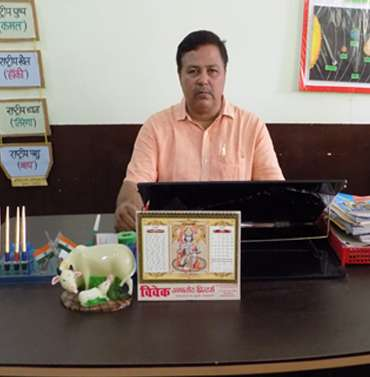
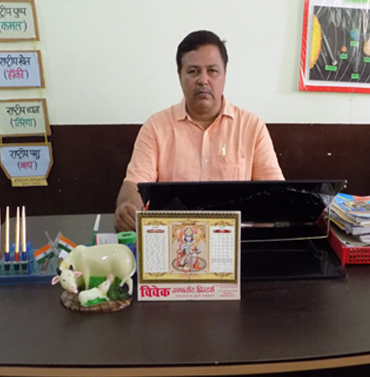
third push

diff --git a/index.html b/index.html
@@ -1,7 +1,5 @@
 <!doctype html>
 <html class="no-js" lang="zxx">
-
-<!-- Mirrored from d29u17ylf1ylz9.cloudfront.net/junior/index.html by HTTrack Website Copier/3.x [XR&CO'2014], Fri, 05 Oct 2018 08:12:58 GMT -->
 <head>
 	<meta charset="utf-8">
 	<meta http-equiv="x-ua-compatible" content="ie=edge">
@@ -28,13 +26,7 @@
 	<script src="js/vendor/modernizr-3.5.0.min.js"></script>
 </head>
 <body>
-	<!--[if lte IE 9]>
-		<p class="browserupgrade">You are using an <strong>outdated</strong> browser. Please <a href="https://browsehappy.com/">upgrade your browser</a> to improve your experience and security.</p>
-	<![endif]-->
-
-	<!-- Add your site or application content here -->
 	
-	<!-- <div class="fakeloader"></div> -->
 
 	<!-- Main wrapper -->
 	<div class="wrapper" id="wrapper">
@@ -48,7 +40,7 @@
 							<div class="jun__header__top__left">
 								<ul class="top__address d-flex justify-content-start align-items-center flex-wrap flex-lg-nowrap flex-md-nowrap">
 									<li><i class="fa fa-envelope"></i><a href="#">gsgncaghughli@gmail.com</a></li>
-									<li><i class="fa fa-phone"></i><span>Contact Now :</span><a href="https://wa.me/919936591236?text=Hello%20GSGNCA%2C%20I%20would%20like%20to%20know%20more%20about%20the%20school." target="_blank" rel="noopener">+91 9936591236, &nbsp;+91 8299660912</a></li>
+									<li><i class="fa fa-phone"></i><span>Contact Now :</span><a href="#">+91 9919654540, &nbsp;+91 8299660912</a></li>
 								</ul>
 							</div>
 						</div>
@@ -79,7 +71,7 @@
 							<div class="mainmenu__wrap">
 								<nav class="mainmenu__nav">
                                     <ul class="mainmenu">
-                                        <li class="drop"><a href="Index.html">Home</a>
+                                        <li class="drop"><a href="index.html">Home</a>
                                            
                                         </li>
                                         <li class="drop"><a href="About_us.html".html">About us</a>
@@ -206,7 +198,7 @@
 							<!-- Start Single Choose -->
 							<div class="choose">
 								<div class="choose__inner">
-									<h4><a href="about-us.html">Academy + Cometativ Class</a></h4>
+									<h4><a href="about-us.html">Academy + Competitive Class</a></h4>
 									<p>Our aim student successful admission in Vidyagyan school,Olympiad exam,Navodaya school,Sainik school etc.</p>
 								</div>
 								<div class="choose__icon">
@@ -218,7 +210,7 @@
 							<div class="choose">
 								<div class="choose__inner">
 									<h4><a href="about-us.html">Library Provided</a></h4>
-									<p>Guru Shri Goraksh Nath Central Academy to provide all students books and library books and Cometativ others books.</p>
+									<p>Guru Shri Goraksh Nath Central Academy to provide all students books and library books and Competitive others books.</p>
 								</div>
 								<div class="choose__icon">
 									<img src="images/choose/icon/2.png" alt="choose icon">
@@ -358,7 +350,7 @@
 								<img src="images/shape/sm-icon/3.png" alt="icon images">
 							</div>
 							<div class="service__details">
-								<h6><a href="service.html">Cometativ Class</a></h6>
+								<h6><a href="service.html">Competitive Class</a></h6>
 								<p>Our aim student successful admission in Vidyagyan school,Olympiad exam,Navodaya school,Sainik school etc.</p>
 								<div class="service__btn">
 									<a class="dcare__btn--2" href="#">Read More</a>
@@ -424,41 +416,14 @@
 							</div>
 							<div class="team__details">
 								<div class="team__info">
-									<h6><a href="#">Dr.Rajesh Singh (Director)</a></h6>
+									<h6><a href="#">Dr.Rajesh Singh ( Manager)</a></h6>
 									<span>Guru Shri Goraksh Nath Central Academy</span>
 								</div>
 							</div>
 						</div>
 					</div>
 					<!-- End Single Team -->
-					<!-- Start Single Team -->
-					<div class="col-lg-4 col-md-6 col-sm-6 col-12">
-						<div class="team">
-							<div class="team__thumb">
-								<a href="#">
-									<img src="images/team/2.jpg" alt="team images">
-								</a>
-								<div class="team__hover__action">
-									<div class="team__hover__inner">
-										<p>providing quality education and creating a platform for skilled society among the most backward class of communities .</p>
-										<ul class="dacre__social__link--2 d-flex justify-content-center">
-											<li class="facebook"><a href="https://www.facebook.com/"><i class="fa fa-facebook"></i></a></li>
-											<li class="twitter"><a href="https://twitter.com/"><i class="fa fa-twitter"></i></a></li>
-											<li class="vimeo"><a href="https://vimeo.com/"><i class="fa fa-vimeo"></i></a></li>
-											<li class="pinterest"><a href="https://www.pinterest.com/"><i class="fa fa-pinterest-p"></i></a></li>
-										</ul>
-									</div>
-								</div>
-							</div>
-							<div class="team__details">
-								<div class="team__info">
-									<h6><a href="#">Awadhesh Jaiswal (Principal)</a></h6>
-									<span>Guru Shri Goraksh Nath Central Academy</span>
-								</div>
-							</div>
-						</div>
-					</div>
-					<!-- End Single Team -->
+			
 					<!-- Start Single Team -->
 					<div class="col-lg-4 col-md-6 col-sm-6 col-12">
 						<div class="team">
@@ -480,7 +445,35 @@
 							</div>
 							<div class="team__details">
 								<div class="team__info">
-									<h6><a href="#">Gyanendra Pathak (Manager)</a></h6>
+									<h6><a href="#">Gyanendra Pathak (Director)</a></h6>
+									<span>Guru Shri Goraksh Nath Central Academy</span>
+								</div>
+							</div>
+						</div>
+					</div>
+					<!-- End Single Team -->
+							<!-- Start Single Team -->
+					<div class="col-lg-4 col-md-6 col-sm-6 col-12">
+						<div class="team">
+							<div class="team__thumb">
+								<a href="#">
+									<img src="images/team/2.jpg" alt="team images">
+								</a>
+								<div class="team__hover__action">
+									<div class="team__hover__inner">
+										<p>providing quality education and creating a platform for skilled society among the most backward class of communities .</p>
+										<ul class="dacre__social__link--2 d-flex justify-content-center">
+											<li class="facebook"><a href="https://www.facebook.com/"><i class="fa fa-facebook"></i></a></li>
+											<li class="twitter"><a href="https://twitter.com/"><i class="fa fa-twitter"></i></a></li>
+											<li class="vimeo"><a href="https://vimeo.com/"><i class="fa fa-vimeo"></i></a></li>
+											<li class="pinterest"><a href="https://www.pinterest.com/"><i class="fa fa-pinterest-p"></i></a></li>
+										</ul>
+									</div>
+								</div>
+							</div>
+							<div class="team__details">
+								<div class="team__info">
+									<h6><a href="#">Amit Ghosh (Principal)</a></h6>
 									<span>Guru Shri Goraksh Nath Central Academy</span>
 								</div>
 							</div>
@@ -612,7 +605,7 @@
 								<div class="gallery__hover__action">
 									<ul class="gallery__zoom">
 										<li><a href="images/gallery/big-img/1.jpg" data-lightbox="grportimg" data-title="My caption"><i class="fa fa-search"></i></a></li>
-										<li><a href="gallery-details.html"><i class="fa fa-link"></i></a></li>
+										<li><a href="#"><i class="fa fa-link"></i></a></li>
 									</ul>
 									<h4 class="gallery__title"><a href="#">GSGNCA</a></h4>
 								</div>
@@ -632,7 +625,7 @@
 								<div class="gallery__hover__action">
 									<ul class="gallery__zoom">
 										<li><a href="images/gallery/big-img/2.jpg" data-lightbox="grportimg" data-title="My caption"><i class="fa fa-search"></i></a></li>
-										<li><a href="gallery-details.html"><i class="fa fa-link"></i></a></li>
+										<li><a href="#"><i class="fa fa-link"></i></a></li>
 									</ul>
 									<h4 class="gallery__title"><a href="#">GSGNCA</a></h4>
 								</div>
@@ -652,7 +645,7 @@
 								<div class="gallery__hover__action">
 									<ul class="gallery__zoom">
 										<li><a href="images/gallery/big-img/3.jpg" data-lightbox="grportimg" data-title="My caption"><i class="fa fa-search"></i></a></li>
-										<li><a href="gallery-details.html"><i class="fa fa-link"></i></a></li>
+										<li><a href="#"><i class="fa fa-link"></i></a></li>
 									</ul>
 									<h4 class="gallery__title"><a href="#">GSGNCA</a></h4>
 								</div>
@@ -672,7 +665,7 @@
 								<div class="gallery__hover__action">
 									<ul class="gallery__zoom">
 										<li><a href="images/gallery/big-img/4.jpg" data-lightbox="grportimg" data-title="My caption"><i class="fa fa-search"></i></a></li>
-										<li><a href="gallery-details.html"><i class="fa fa-link"></i></a></li>
+										<li><a href="#"><i class="fa fa-link"></i></a></li>
 									</ul>
 									<h4 class="gallery__title"><a href="#">GSGNCA</a></h4>
 								</div>
@@ -692,7 +685,7 @@
 								<div class="gallery__hover__action">
 									<ul class="gallery__zoom">
 										<li><a href="images/gallery/big-img/5.jpg" data-lightbox="grportimg" data-title="My caption"><i class="fa fa-search"></i></a></li>
-										<li><a href="gallery-details.html"><i class="fa fa-link"></i></a></li>
+										<li><a href="#"><i class="fa fa-link"></i></a></li>
 									</ul>
 									<h4 class="gallery__title"><a href="#">GSGNCA</a></h4>
 								</div>
@@ -712,7 +705,7 @@
 								<div class="gallery__hover__action">
 									<ul class="gallery__zoom">
 										<li><a href="images/gallery/big-img/6.jpg" data-lightbox="grportimg" data-title="My caption"><i class="fa fa-search"></i></a></li>
-										<li><a href="gallery-details.html"><i class="fa fa-link"></i></a></li>
+										<li><a href="#"><i class="fa fa-link"></i></a></li>
 									</ul>
 									<h4 class="gallery__title"><a href="#">GSGNCA </a></h4>
 								</div>
@@ -735,7 +728,7 @@
 								<div class="gallery__hover__action">
 									<ul class="gallery__zoom">
 										<li><a href="images/gallery/big-img/6.jpg" data-lightbox="grportimg" data-title="My caption"><i class="fa fa-search"></i></a></li>
-										<li><a href="gallery-details.html"><i class="fa fa-link"></i></a></li>
+										<li><a href="#"><i class="fa fa-link"></i></a></li>
 									</ul>
 									<h4 class="gallery__title"><a href="#">GSGNCA </a></h4>
 								</div>
@@ -758,7 +751,7 @@
 								<div class="gallery__hover__action">
 									<ul class="gallery__zoom">
 										<li><a href="images/gallery/big-img/6.jpg" data-lightbox="grportimg" data-title="My caption"><i class="fa fa-search"></i></a></li>
-										<li><a href="gallery-details.html"><i class="fa fa-link"></i></a></li>
+										<li><a href="#"><i class="fa fa-link"></i></a></li>
 									</ul>
 									<h4 class="gallery__title"><a href="#">GSGNCA </a></h4>
 								</div>
@@ -781,7 +774,7 @@
 								<div class="gallery__hover__action">
 									<ul class="gallery__zoom">
 										<li><a href="images/gallery/big-img/6.jpg" data-lightbox="grportimg" data-title="My caption"><i class="fa fa-search"></i></a></li>
-										<li><a href="gallery-details.html"><i class="fa fa-link"></i></a></li>
+										<li><a href="#"><i class="fa fa-link"></i></a></li>
 									</ul>
 									<h4 class="gallery__title"><a href="#">GSGNCA </a></h4>
 								</div>
@@ -806,7 +799,7 @@
 								<div class="gallery__hover__action">
 									<ul class="gallery__zoom">
 										<li><a href="images/gallery/big-img/6.jpg" data-lightbox="grportimg" data-title="My caption"><i class="fa fa-search"></i></a></li>
-										<li><a href="gallery-details.html"><i class="fa fa-link"></i></a></li>
+										<li><a href="#"><i class="fa fa-link"></i></a></li>
 									</ul>
 									<h4 class="gallery__title"><a href="#">GSGNCA </a></h4>
 								</div>
@@ -828,7 +821,7 @@
 								<div class="gallery__hover__action">
 									<ul class="gallery__zoom">
 										<li><a href="images/gallery/big-img/6.jpg" data-lightbox="grportimg" data-title="My caption"><i class="fa fa-search"></i></a></li>
-										<li><a href="gallery-details.html"><i class="fa fa-link"></i></a></li>
+										<li><a href="#"><i class="fa fa-link"></i></a></li>
 									</ul>
 									<h4 class="gallery__title"><a href="#">GSGNCA </a></h4>
 								</div>
@@ -850,7 +843,7 @@
 								<div class="gallery__hover__action">
 									<ul class="gallery__zoom">
 										<li><a href="images/gallery/big-img/6.jpg" data-lightbox="grportimg" data-title="My caption"><i class="fa fa-search"></i></a></li>
-										<li><a href="gallery-details.html"><i class="fa fa-link"></i></a></li>
+										<li><a href="#"><i class="fa fa-link"></i></a></li>
 									</ul>
 									<h4 class="gallery__title"><a href="#">GSGNCA </a></h4>
 								</div>
@@ -1045,9 +1038,7 @@ Uttar Pradesh, 273151</li>
 										<!-- Start Single -->
 										<div class="single__ftr__post d-flex">
 											<div class="ftr__post__thumb">
-												<a href="blog-details.html">
-													<img src="images/blog/post-img/2.jpg" alt="post images">
-												</a>
+												
 											</div>
 											<div class="ftr__post__details">
 												<h6><a href="blog-details.html">Sports Day is near! so lets get ready soon</a></h6>
@@ -1058,9 +1049,7 @@ Uttar Pradesh, 273151</li>
 										<!-- Start Single -->
 										<div class="single__ftr__post d-flex">
 											<div class="ftr__post__thumb">
-												<a href="blog-details.html">
-													
-												</a>
+												
 											</div>
 											<div class="ftr__post__details">
 												<h6><a href="blog-details.html">Sports Day Celebration</a></h6>
@@ -1071,9 +1060,7 @@ Uttar Pradesh, 273151</li>
 										<!-- Start Single -->
 										<div class="single__ftr__post d-flex">
 											<div class="ftr__post__thumb">
-												<a href="blog-details.html">
-													
-												</a>
+												
 											</div>
 											<div class="ftr__post__details">
 												<h6><a href="blog-details.html">Sports Day Celebration</a></h6>
@@ -1119,7 +1106,7 @@ Uttar Pradesh, 273151</li>
 												<i class="fa fa-twitter"></i>
 											</div>
 											<div class="dcare__twit__details">
-												<p>Lorem ipsum dolor sit  consect ietur adipisicing sed  eiipsa<a href="#"># twitter .com?web/lnk/statement</a></p>
+												<p>Lorem ipsum dolor sit  consect ietur adipisicing sed  eiipsa<a href="#"></a></p>
 												<span><i class="fa fa-clock-o"></i>30th Dec, 2017</span>
 												<span><i class="fa fa-calendar"></i>30th Dec, 2017</span>
 											</div>
@@ -1131,7 +1118,7 @@ Uttar Pradesh, 273151</li>
 												<i class="fa fa-twitter"></i>
 											</div>
 											<div class="dcare__twit__details">
-												<p>Lorem ipsum dolor sit  consect ietur adipisicing sed  eiipsa<a href="#"># twitter .com?web/lnk/statement</a></p>
+												<p>Lorem ipsum dolor sit  consect ietur adipisicing sed  eiipsa<a href="#"></a></p>
 												<span><i class="fa fa-clock-o"></i>30th Dec, 2017</span>
 												<span><i class="fa fa-calendar"></i>30th Dec, 2017</span>
 											</div>
@@ -1175,8 +1162,8 @@ Uttar Pradesh, 273151
 										<i class="fa fa-phone"></i>
 									</div>
 									<div class="ft__contact__details">
-										<p><a href="https://wa.me/919936591236?text=Hello%20GSGNCA%2C%20I%20would%20like%20to%20know%20more%20about%20the%20school." target="_blank" rel="noopener">+91 9936591236</a></p>
-										<p><a href="https://wa.me/918299660912?text=Hello%20GSGNCA%2C%20I%20would%20like%20to%20contact%20the%20school." target="_blank" rel="noopener">+91 8299660912</a></p>
+										<p><a href="#">+91 9936591236</a></p>
+										<p><a href="#">+91 8299660912</a></p>
 									</div>
 								</div>
 								<div class="single__footer__address">
@@ -1364,7 +1351,7 @@ Uttar Pradesh, 273151
 	<script src="js/active.js"></script>
 </body>
 
-<!-- Mirrored from d29u17ylf1ylz9.cloudfront.net/junior/index.html by HTTrack Website Copier/3.x [XR&CO'2014], Fri, 05 Oct 2018 08:14:46 GMT -->
+
 </html>
 
 		
